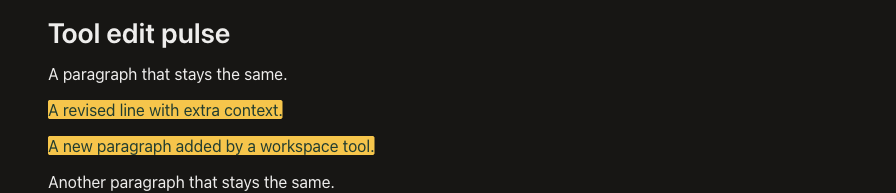
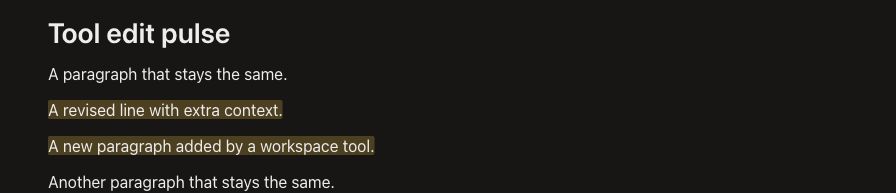
Soften tool edit highlights in dark mode

Changed region(s): [[0.0312, 0.6839, 0.4375, 0.8083], [0.0312, 0.4974, 0.3438, 0.6218]]

diff --git a/packages/ui/src/editor/EditorView.css b/packages/ui/src/editor/EditorView.css
@@ -707,10 +707,20 @@
 		animation: hubble-selection-attach 800ms ease-out;
 		background: color-mix(
 			in oklab,
-			var(--brand-accent) var(--hubble-attach-flash),
+			var(--hubble-tool-edit-tint, var(--brand-accent))
+				var(--hubble-attach-flash),
 			transparent
 		);
 		border-radius: 2px;
 		box-decoration-break: clone;
+	}
+
+	.dark .ProseMirror .hubble-tool-edit {
+		--hubble-tool-edit-tint: color-mix(
+			in oklab,
+			var(--brand-accent) 24%,
+			transparent
+		);
+		color: inherit;
 	}
 }
